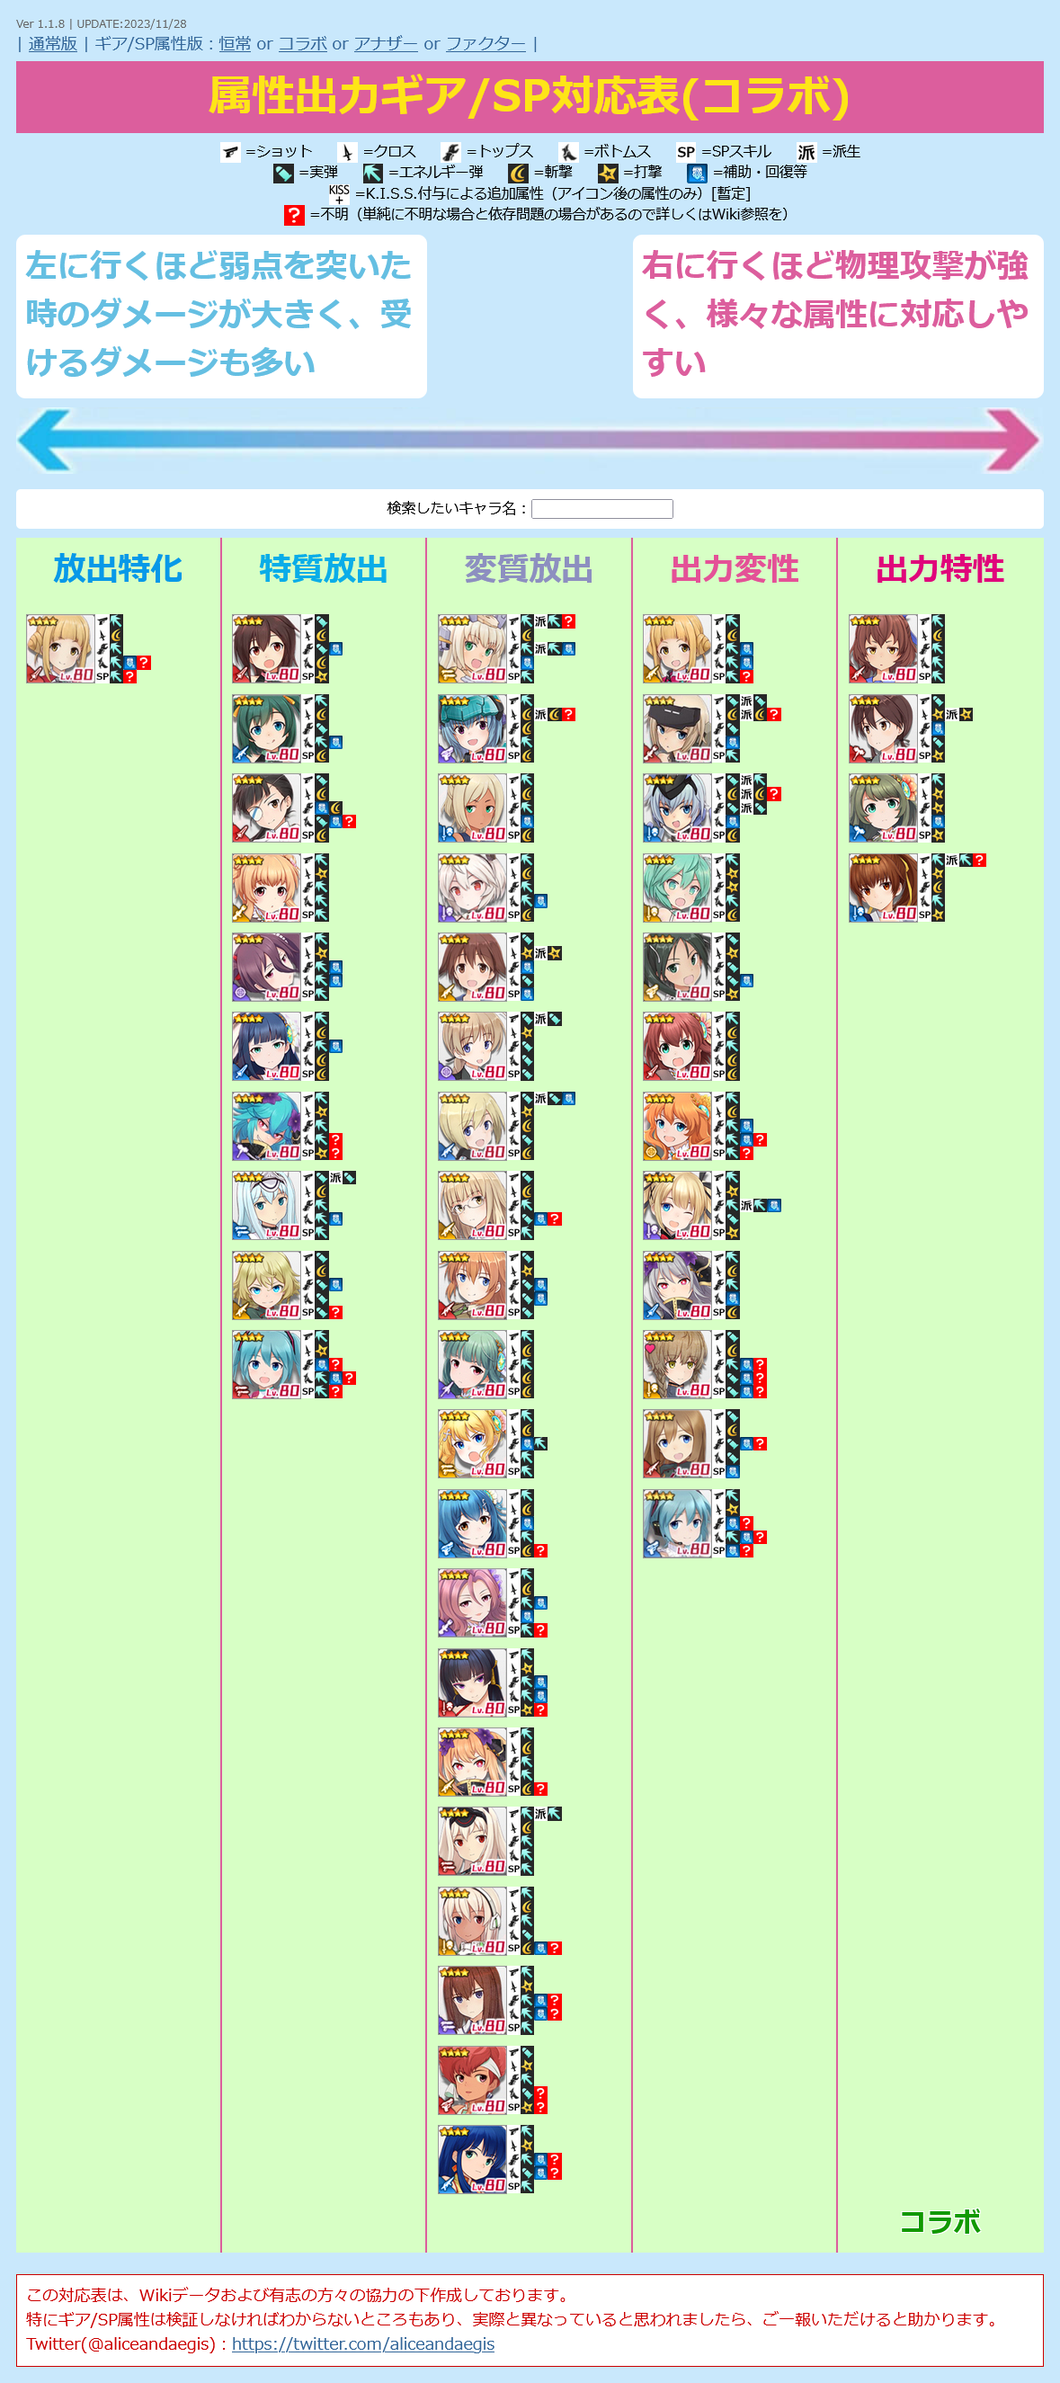
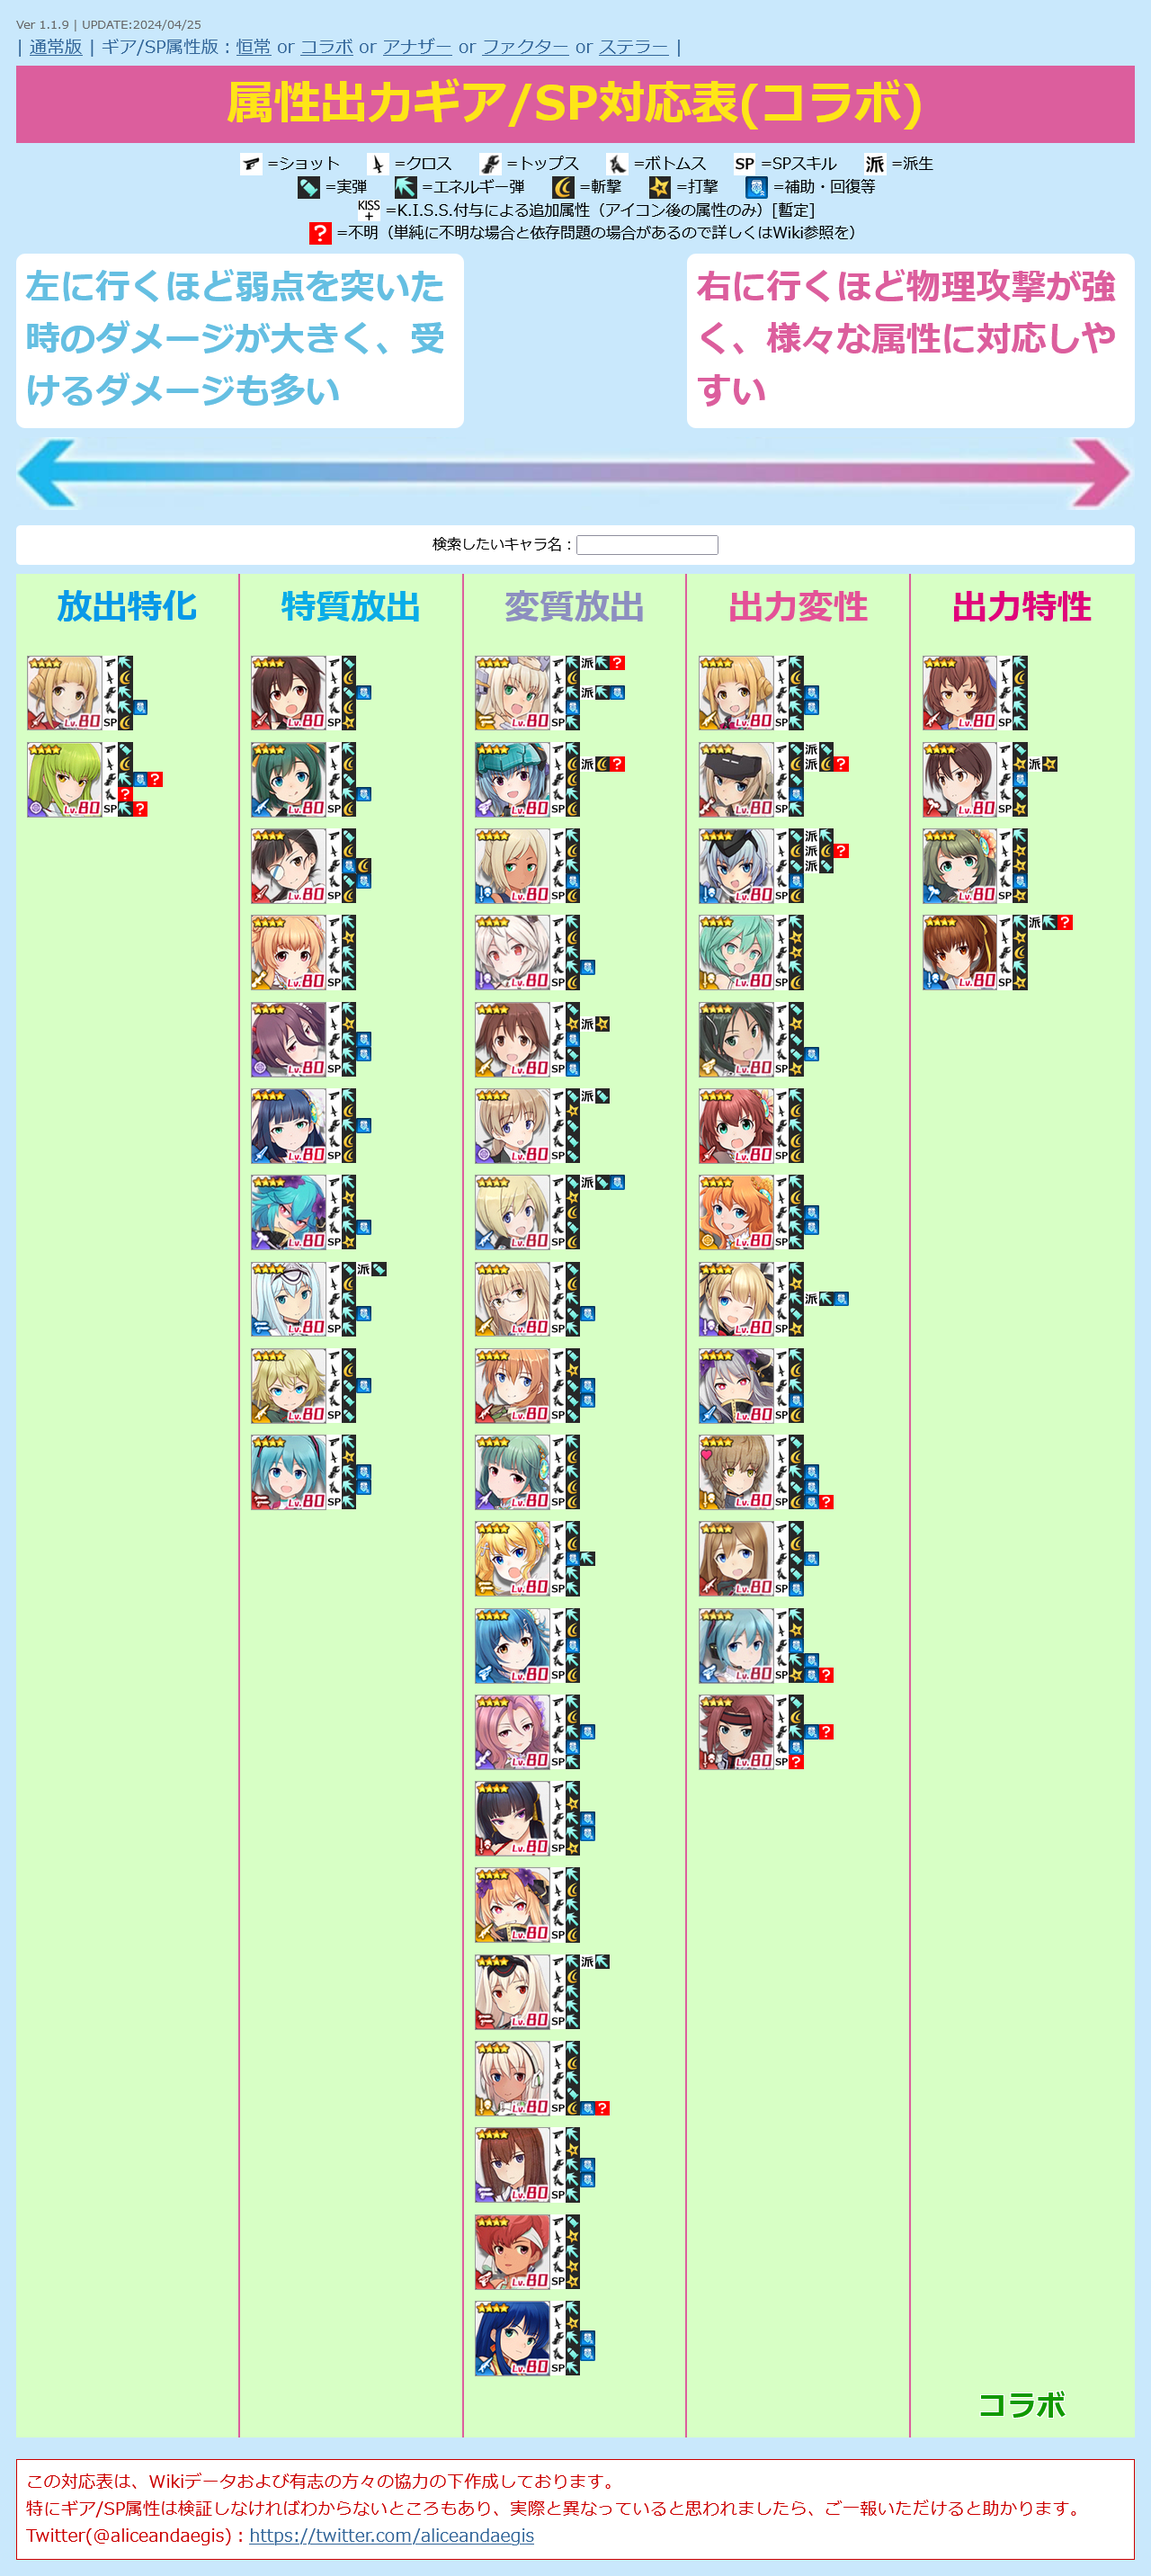
UPDATE charadata
・コラボ C.C.を追加
・コラボ 紅月 カレンを追加

diff --git a/alice.html b/alice.html
@@ -12,7 +12,7 @@
   <script>
 
 /* 更新情報 必要に応じて書き換えてください */
-  var version = "Ver 1.1.9 | UPDATE:2024/04/11";
+  var version = "Ver 1.1.9 | UPDATE:2024/04/25";
 
 
 /*
@@ -21,7 +21,7 @@
 
   { ... },
   でキャラデータがワンセット。各項目は下記の通り。
-  id       = 番号(101～アニメ、151～FAGコラボ、201～SOL/DTAコラボ、301～ｽﾄﾗｲｸｳｨｯﾁｰｽﾞ、401～ﾊﾞﾄﾙｶﾞｰﾙﾊｲｽｸｰﾙ、501～ﾃﾞｯﾄﾞｵｱｱﾗｲﾌﾞ、601～東京ﾄﾞｰﾙｽﾞ、701～ﾀﾞﾗｲｱｽ、801～ｼｭﾀｲﾝｽﾞ･ｹﾞｰﾄ、811～幼女戦記、821～ﾀﾞｰﾃｨﾍﾟｱ、831～初音ミクコラボ)
+  id       = 番号(101～アニメ、151～FAGコラボ、201～SOL/DTAコラボ、301～ｽﾄﾗｲｸｳｨｯﾁｰｽﾞ、401～ﾊﾞﾄﾙｶﾞｰﾙﾊｲｽｸｰﾙ、501～ﾃﾞｯﾄﾞｵｱｱﾗｲﾌﾞ、601～東京ﾄﾞｰﾙｽﾞ、701～ﾀﾞﾗｲｱｽ、801～ｼｭﾀｲﾝｽﾞ･ｹﾞｰﾄ、811～幼女戦記、821～ﾀﾞｰﾃｨﾍﾟｱ、831～初音ミクコラボ)、841～ｺｰﾄﾞｷﾞｱｽ
   type     = 1=放出特化、2=特質放出、3=変質放出、4=出力変性、5=出力特性
   src      = 画像ファイル名
   name     = キャラクター名
@@ -508,7 +508,7 @@
       "equip2": "3",
       "equip3": "5",
       "equip4": "2",
-      "sp": "4?",
+      "sp": "4",
       "attr": "4",
       "link": "https://wikiwiki.jp/alicegear/%E3%83%90%E3%83%BC%E3%82%B8%E3%83%8B%E3%82%A2%E3%83%BB%E3%82%B0%E3%83%AA%E3%83%B3%E3%83%99%E3%83%AC%E3%83%BC/%E3%83%81%E3%83%A3%E3%83%AA%E3%82%AA%E3%83%83%E3%83%88",
       "category": "12"
@@ -2119,7 +2119,7 @@
       "equip2": "3",
       "equip3": "25",
       "equip4": "25",
-      "sp": "2?",
+      "sp": "2",
       "attr": "1",
       "link": "https://wikiwiki.jp/alicegear/%E9%AB%98%E5%B9%A1%E3%81%AE%E3%81%A9%E3%81%8B",
       "category": "99"
@@ -2132,8 +2132,8 @@
       "equip1": "2",
       "equip2": "3",
       "equip3": "2",
-      "equip4": "25?",
-      "sp": "2?",
+      "equip4": "25",
+      "sp": "3",
       "attr": "3",
       "link": "https://wikiwiki.jp/alicegear/%E9%AB%98%E5%B9%A1%E3%81%AE%E3%81%A9%E3%81%8B%E5%B8%AB%E9%96%80",
       "category": "99"
@@ -2342,7 +2342,7 @@
       "equip1": "1",
       "equip2": "3",
       "equip3": "53",
-      "equip4": "15?",
+      "equip4": "15",
       "sp": "3",
       "attr": "3",
       "link": "https://wikiwiki.jp/alicegear/%E5%9D%82%E6%9C%AC%E7%BE%8E%E7%B7%92",
@@ -2356,7 +2356,7 @@
       "equip1": "1",
       "equip2": "3",
       "equip3": "2",
-      "equip4": "15?",
+      "equip4": "15",
       "sp": "2",
       "attr": "1",
       "link": "https://wikiwiki.jp/alicegear/%E3%83%9A%E3%83%AA%E3%83%BC%E3%83%8C%E3%83%BB%E3%82%AF%E3%83%AD%E3%82%B9%E3%83%86%E3%83%AB%E3%83%9E%E3%83%B3",
@@ -2469,7 +2469,7 @@
       "equip2": "3",
       "equip3": "5",
       "equip4": "2",
-      "sp": "3?",
+      "sp": "3",
       "attr": "4",
       "link": "https://wikiwiki.jp/alicegear/%E5%9B%BD%E6%9E%9D%E8%A9%A9%E7%A9%82",
       "category": "99"
@@ -2567,7 +2567,7 @@
       "equip2": "4",
       "equip3": "25",
       "equip4": "25",
-      "sp": "4?",
+      "sp": "4",
       "attr": "3",
       "link": "https://wikiwiki.jp/alicegear/%E5%A5%B3%E5%A4%A9%E7%8B%97",
       "category": "99"
@@ -2581,7 +2581,7 @@
       "equip2": "3",
       "equip3": "2",
       "equip4": "2",
-      "sp": "3?",
+      "sp": "3",
       "attr": "1",
       "link": "https://wikiwiki.jp/alicegear/%E3%82%A2%E3%83%A4",
       "category": "99"
@@ -2608,8 +2608,8 @@
       "equip1": "2",
       "equip2": "4",
       "equip3": "2",
-      "equip4": "2?",
-      "sp": "4?",
+      "equip4": "25",
+      "sp": "4",
       "attr": "2",
       "link": "https://wikiwiki.jp/alicegear/%E3%83%A4%E3%83%9E%E3%83%80",
       "category": "99"
@@ -2661,11 +2661,11 @@
       "id": "801",
       "type": "3",
       "src": "normal-makise.png",
-      "name": "牧瀬紅 莉栖",
+      "name": "牧瀬 紅莉栖",
       "equip1": "2",
       "equip2": "4",
-      "equip3": "25?",
-      "equip4": "25?",
+      "equip3": "25",
+      "equip4": "25",
       "sp": "2",
       "attr": "2",
       "link": "https://wikiwiki.jp/alicegear/%E7%89%A7%E7%80%AC%E7%B4%85%E8%8E%89%E6%A0%96",
@@ -2678,9 +2678,9 @@
       "name": "阿万音 鈴羽",
       "equip1": "1",
       "equip2": "3",
-      "equip3": "25?",
-      "equip4": "15?",
-      "sp": "15?",
+      "equip3": "25",
+      "equip4": "15",
+      "sp": "35?",
       "attr": "1",
       "link": "https://wikiwiki.jp/alicegear/%E9%98%BF%E4%B8%87%E9%9F%B3%E9%88%B4%E7%BE%BD",
       "category": "99"
@@ -2694,7 +2694,7 @@
       "equip2": "3",
       "equip3": "15",
       "equip4": "1",
-      "sp": "1?",
+      "sp": "1",
       "attr": "1",
       "link": "https://wikiwiki.jp/alicegear/%E3%82%BF%E3%83%BC%E3%83%8B%E3%83%A3%E3%83%BB%E3%83%87%E3%82%B0%E3%83%AC%E3%83%81%E3%83%A3%E3%83%95",
       "category": "99"
@@ -2706,7 +2706,7 @@
       "name": "ヴィクトーリヤ・イヴァーノヴナ・セレブリャコーフ",
       "equip1": "1",
       "equip2": "3",
-      "equip3": "15?",
+      "equip3": "15",
       "equip4": "1",
       "sp": "5",
       "attr": "3",
@@ -2722,8 +2722,8 @@
       "equip1": "1",
       "equip2": "4",
       "equip3": "2",
-      "equip4": "1?",
-      "sp": "4?",
+      "equip4": "4",
+      "sp": "4",
       "attr": "3",
       "link": "https://wikiwiki.jp/alicegear/%E3%82%B1%E3%82%A4",
       "category": "99"
@@ -2735,8 +2735,8 @@
       "name": "ユリ",
       "equip1": "2",
       "equip2": "4",
-      "equip3": "25?",
-      "equip4": "15?",
+      "equip3": "25",
+      "equip4": "15",
       "sp": "2",
       "attr": "4",
       "link": "https://wikiwiki.jp/alicegear/%E3%83%A6%E3%83%AA",
@@ -2749,9 +2749,9 @@
       "name": "初音 ミク",
       "equip1": "2",
       "equip2": "4",
-      "equip3": "5?",
-      "equip4": "25?",
-      "sp": "5?",
+      "equip3": "5",
+      "equip4": "25",
+      "sp": "45?",
       "attr": "4",
       "link": "https://wikiwiki.jp/alicegear/%E5%88%9D%E9%9F%B3%E3%83%9F%E3%82%AF",
       "category": "99"
@@ -2763,11 +2763,40 @@
       "name": "初音 ミク / 音色",
       "equip1": "2",
       "equip2": "4",
-      "equip3": "5?",
-      "equip4": "25?",
-      "sp": "2?",
+      "equip3": "25",
+      "equip4": "25",
+      "sp": "2",
       "attr": "3",
       "link": "https://wikiwiki.jp/alicegear/%E5%88%9D%E9%9F%B3%E3%83%9F%E3%82%AF%E9%9F%B3%E8%89%B2",
+      "category": "99"
+    },
+
+    {
+      "id": "841",
+      "type": "1",
+      "src": "normal-c.c.png",
+      "name": "C.C.",
+      "equip1": "1",
+      "equip2": "3",
+      "equip3": "25?",
+      "equip4": "?",
+      "sp": "2?",
+      "attr": "2",
+      "link": "https://wikiwiki.jp/alicegear/C.C.",
+      "category": "99"
+    },
+    {
+      "id": "842",
+      "type": "4",
+      "src": "normal-karen.png",
+      "name": "紅月 カレン",
+      "equip1": "1",
+      "equip2": "3",
+      "equip3": "25?",
+      "equip4": "5",
+      "sp": "?",
+      "attr": "3",
+      "link": "https://wikiwiki.jp/alicegear/%E7%B4%85%E6%9C%88%E3%82%AB%E3%83%AC%E3%83%B3",
       "category": "99"
     },
 
